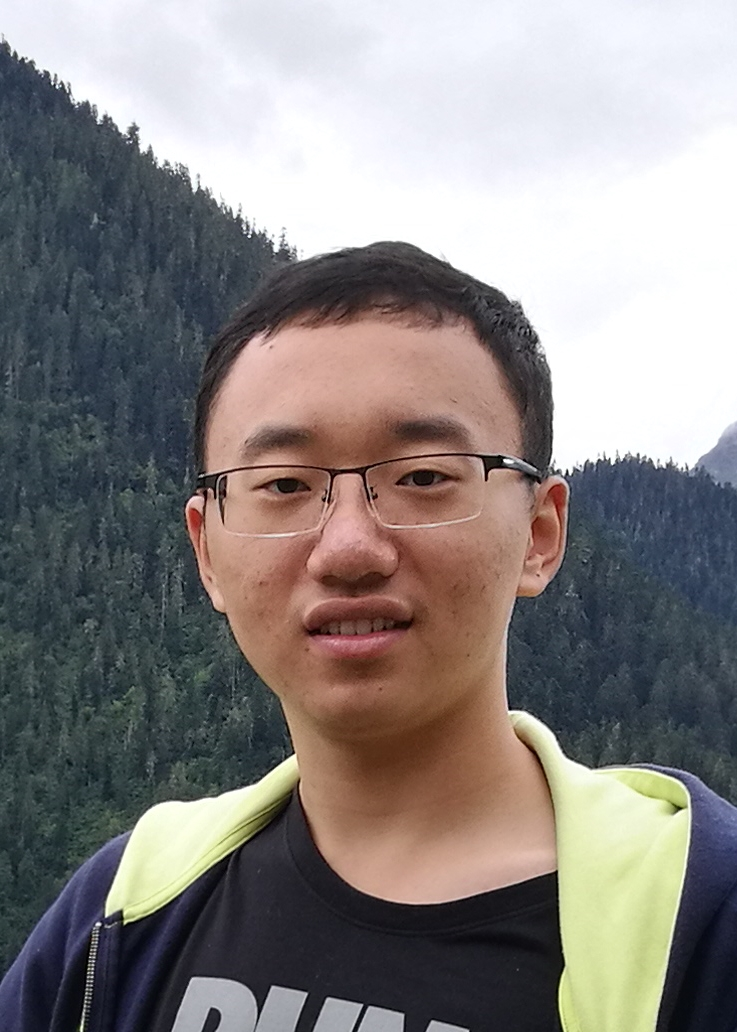
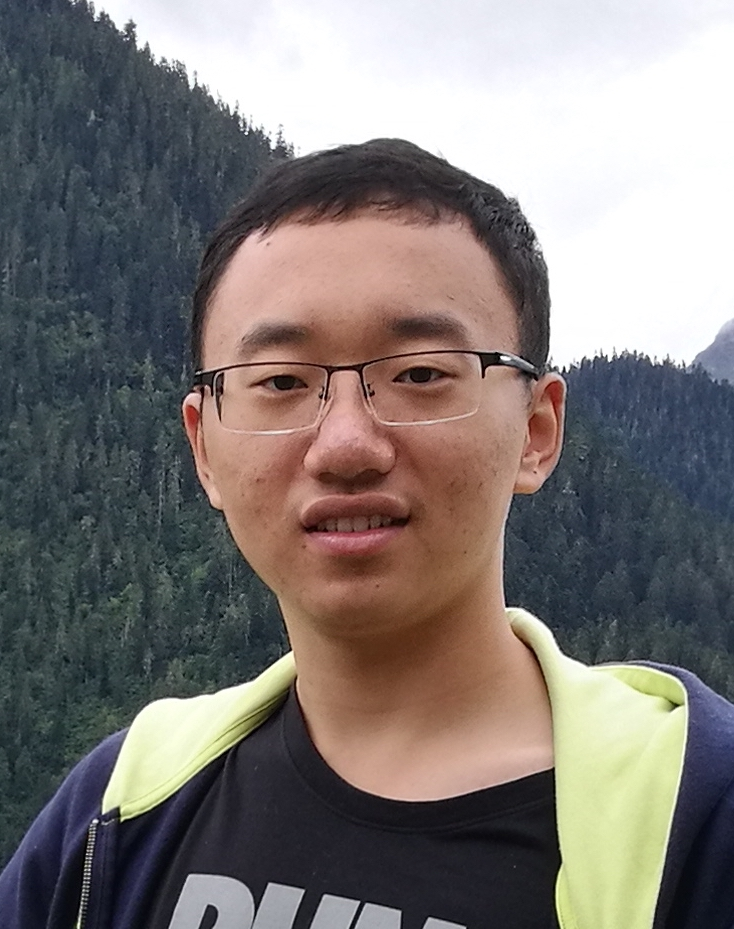
added Gabbi, Yuwei and updated J. Margoliash

diff --git a/people.html b/people.html
@@ -59,7 +59,7 @@ Yuting got her Ph.D. in Biochemistry and Molecular Biology from Shanghai Institu
         </td>
         <td width=70%>
                 <h3>Cynthia Wu</h3>
-                <h4>PhD student (with Gymrek Lab)</h4>
+                <h4>PhD student (with The Gymrek Lab)</h4>
 Cynthia is a PhD student in Bioinformatics and Systems Biology at UCSD. She is interested in genome editing and computational genomics. Her current research studies the transcriptome-wide effects of various mutations in the same genes. 
                 <br>
 		<img width="20" src="images/twitter.jpeg">
@@ -68,6 +68,31 @@ Cynthia is a PhD student in Bioinformatics and Systems Biology at UCSD. She is i
 
 
 </tr>
+<!--JonathanM-->
+<tr>
+        <td width=30%>
+          <img class="headshot" src="images/jonathan_margoliash.jpg" alt="JonathanM">
+	  </td>
+        <td width=70%>
+                <h3>Jonathan Margoliash</h3>
+                <h4>PhD Student (with The Gymrek Lab)</h4>
+Jonathan is a Computer Science grad student at UCSD doing bioinformatics research. He is interested in the application of mathematical, statistical, computational and machine learning approaches to best leverage the complexities of human health datasets. He is currently working on finding associations between tandem repeat genotypes and phenotypes in the UK Biobank. In his spare time, he loves outdoorsing, gaming, and music making. 
+                <br>jmargoli AT eng DOT ucsd DOT edu<br>
+
+
+<!--Gabbi-->
+<tr>
+        <td width=30%>
+          <img class="headshot" src="images/Gabbi.jpg" alt="Gabbi">
+        </td>
+        <td width=70%>
+                <h3>Gabbi Heitmann</h3>
+                <h4>Staff Research Scientist</h4>
+Gabbi graduated from UCSD in June 2020 with a B.S. in General Biology. She is currently working on improving the efficiency of our automated ChIP-seq process. She spends her free time playing beach volleyball, skiing, and scuba diving.
+                <br>
+                <img width="20" src="images/twitter.jpeg">
+                <a href="https://twitter.com/@GabbiHeitmann" target=_"blank">@GabbiHeitmann</a><br>
+                gheitman AT ucsd DOT edu<br>
 <!--sophia-->
 <tr>
         <td width=30%>
@@ -79,31 +104,36 @@ Cynthia is a PhD student in Bioinformatics and Systems Biology at UCSD. She is i
 Sophia is a third year undergraduate student studying biochemistry and cell biology. She is working under Dr. Sharona Shleizer-Burko to create an efficient method for identifying and characterizing high impact regulatory variants. In her free time, she enjoys running, cooking, reading, and going on adventures.
                 <br>
                 smmcdani AT ucsd DOT edu<br>
-<!--JonathanM-->
-<tr>
-        <td width=30%>
-          <img class="headshot" src="images/jonathanM.jpg" alt="JonathanM">
-        </td>
-        <td width=70%>
-                <h3>Jonathan Margoliash</h3>
-                <h4> (with The Gymrek Lab)</h4>
-Jonathan is a masters student in the CS department focusing on machine learning, with a background in math and programming. He has joined the Goren and Gymrek labs to learn how to use insights from data science in genetic studies. In his spare time, Jonathan loves outdoorsing, gaming, and music making.  
-		<br>jmargoli AT eng DOT ucsd DOT edu<br>
 
-<!--JonathanVu-->
+<!--Yuwei-->
 <tr>
         <td width=30%>
-          <img class="headshot" src="images/JonathanVu.jpeg" alt="jonathan-vu">
+          <img class="headshot" src="images/yuwei.jpg" alt="Yuwei">
         </td>
         <td width=70%>
-                <h3>Jonathan Vu</h3>
+                <h3>Yuwei Cao</h3>
+                <h4>B.S./M.S. student</h4>
+Yuwei is an undergraduate student majoring in Biochemistry/Cell Biology. She is working together with Gabbi to improve the efficiency of our automated ChIP-seq workflow. In her free time, Yuwei enjoys cooking, reading, and watching movies.
+<br>
+                <img width="20" src="images/twitter.jpeg">
+                <a href="https://twitter.com/@YuweiCao" target=_"blank">@YuweiCao</a><br>
+                yuc408 AT ucsd DOT edu<br>
+
+
+<!--Jo-Vu-->
+<tr>
+        <td width=30%>
+          <img class="headshot" src="images/jonathanVu.jpeg" alt="Jo-Vu">
+          </td>
+        <td width=70%>
+                <h3>Jonathan (Jo) Vu</h3>
                 <h4>Undergraduate researcher</h4>
-Jonathan is an undergraduate student pursuing a degree in Biochemistry and Music at UCSD. He is working under Dr. Yuting Liu to create a protocol that can identify the genomic localization of protein multiple DNA-protein interactions in a single experiment and to systematically study protein-protein interactions. For hobbies, Jonathan likes to spend some time outside running and likes to improve his jazz improvisational skills on the piano.
-                <br>
-		<img width="20" src="images/twitter.jpeg">
-                <a href="https://twitter.com/@Jonathan__Vu" target=_"blank">@Jonathan__Vu</a><br>
-                jdv010 AT ucsd DOT edu<br>
-
+Jonathan is an undergraduate student pursuing a degree in Biochemistry and Music at UCSD. He is working under Dr. Yuting Liu to create a protocol that can i\
+dentify the genomic localization of protein multiple DNA-protein interactions in a single experiment and to systematically study protein-protein interaction\
+s. For hobbies, Jonathan likes to spend some time outside running and likes to improve his jazz improvisational skills on the piano.
+                <br>jdv010 AT ucsd DOT edu<br>
+		<img width="20" src="images/twitter.jpeg">                                                                                                  
+                <a href="https://twitter.com/@Jonathan__Vu" target=_"blank">@Jonathan__Vu</a><br>                                                           
 <!--Polo-->
 <tr>
         <td width=30%>
